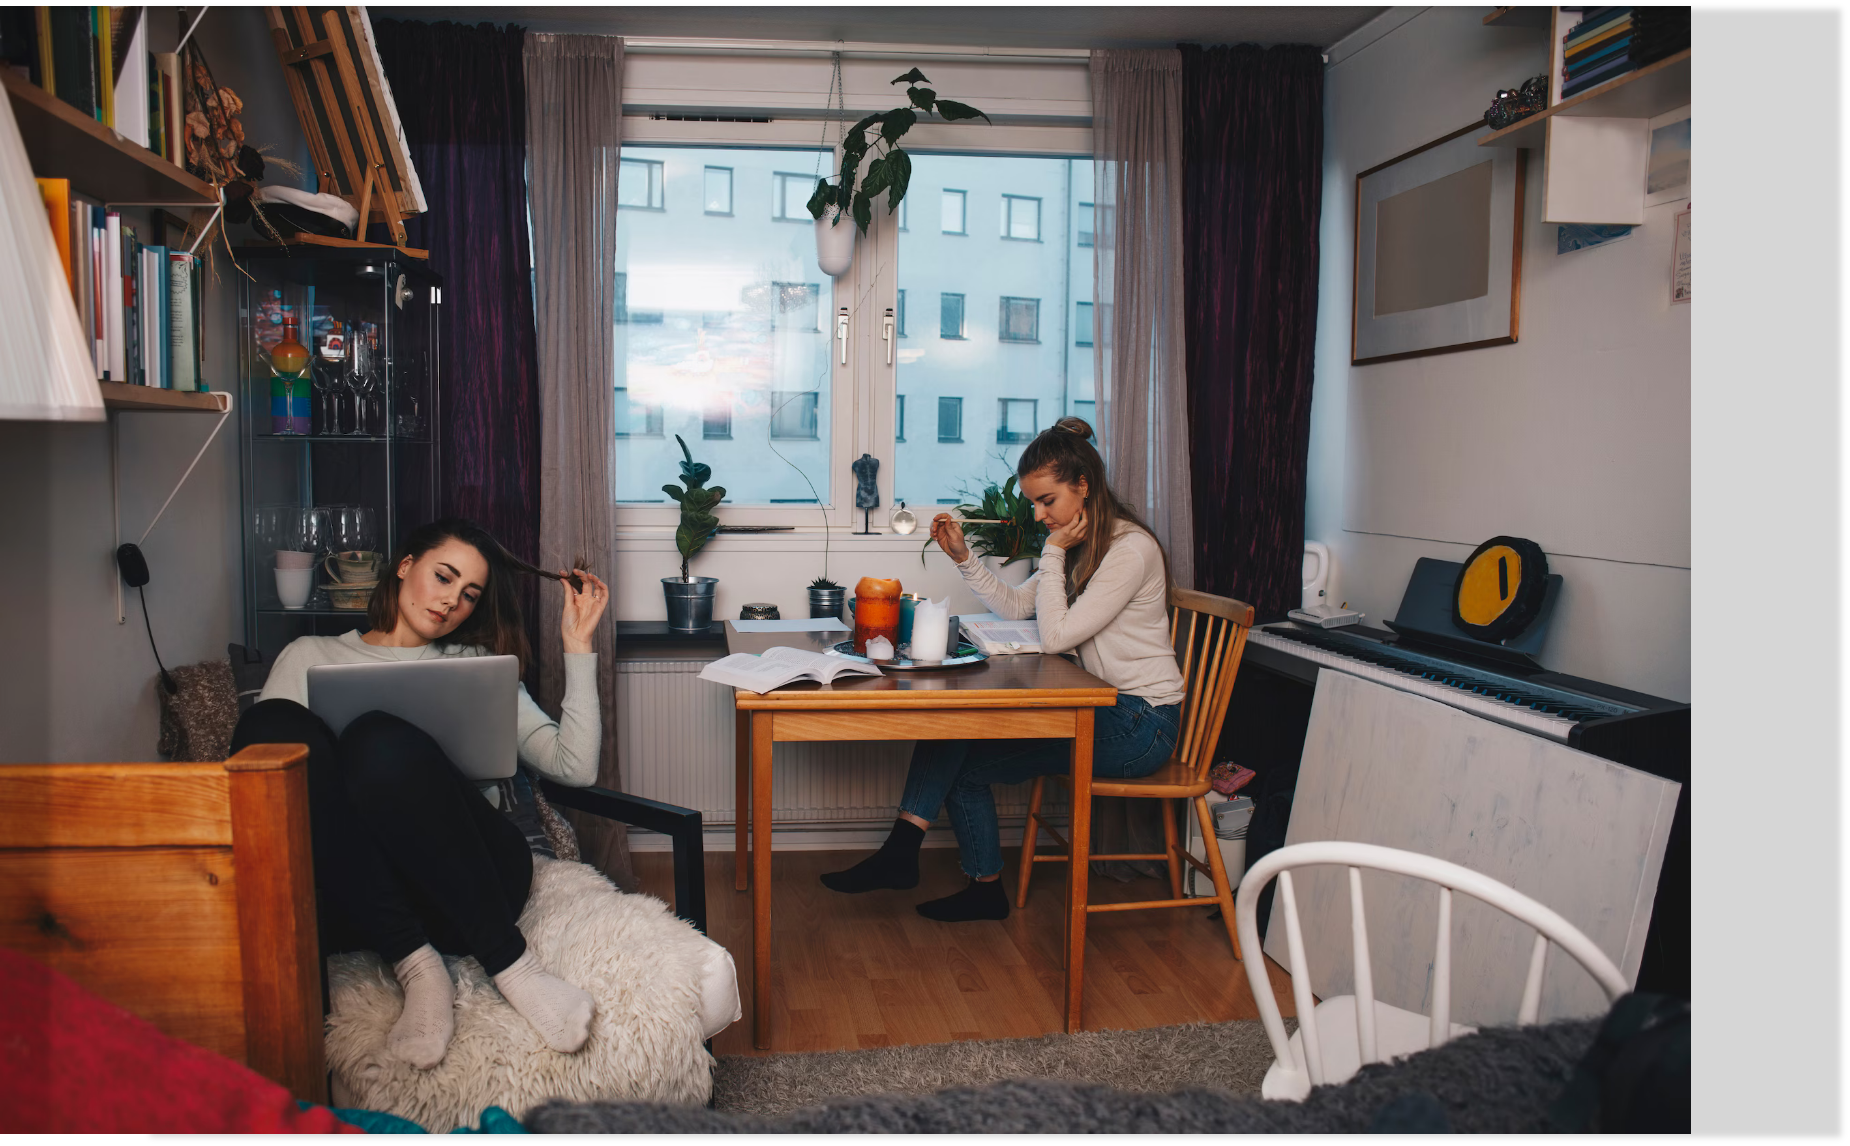
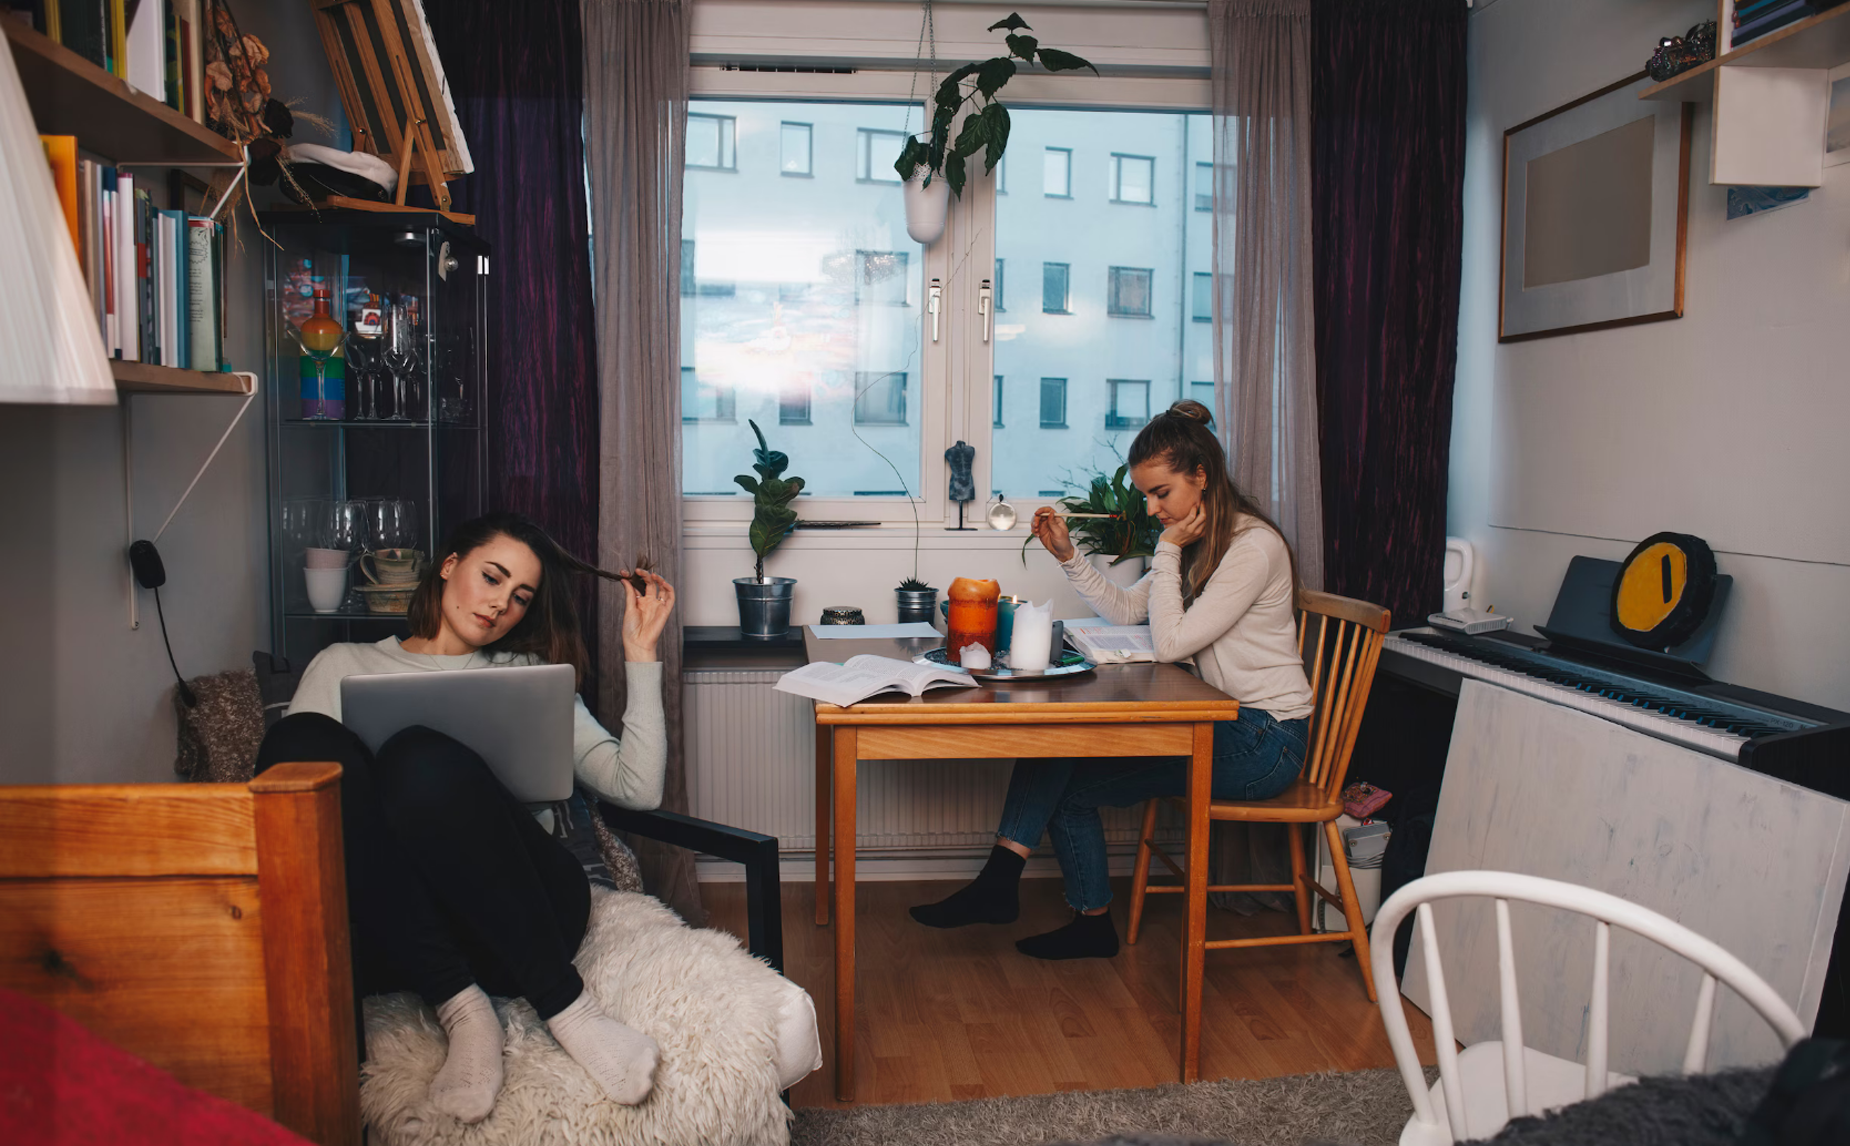
baquet

diff --git a/frontend/css/style.css b/frontend/css/style.css
@@ -1,6 +1,8 @@
 /* frontend/style.css */
 * { box-sizing: border-box; }
 
+
+
 @media (max-width: 600px) {
   /* deze stijl geldt alleen voor schermen smaller dan 600px */
 }
@@ -28,6 +30,13 @@ body { margin:0; font-family: Arial, sans-serif; color:#111; }
 
 footer { display:flex; justify-content:center; gap:40px; padding:15px 0; font-style:italic; font-weight:bold; background:#fff;}
 
+
+html,body{
+  margin: 0;
+  padding: 0;
+  width: 100%;
+  overflow-x: hidden;
+}
 .cta.active {
   background: #e67e22;
   transform: scale(0.97);
@@ -61,14 +70,20 @@ body {
 
 /* === HERO === */
 .hero {
-  height: 75vh;
+ height: 100vh;                     /* vh = volledige hoogte van scherm */
+  width: 110vw;                      /* vw = volledige breedte van scherm */
   display: flex;
   justify-content: center;
   align-items: center;
-  background-size: cover;
-  background-position: center;
+
+background-image: url("/fotos/image.png");  
+background-size: cover;            /* vult volledig het scherm */
+  background-position: center;       /* centreert de afbeelding */
+  background-repeat: no-repeat;      /* geen herhaling */
   position: relative;
-  background-image: url("/fotos/image.png");
+  margin: 0;
+  padding: 0;
+  
 }
 
 

diff --git a/frontend/js/main.js b/frontend/js/main.js
@@ -8,7 +8,7 @@ function createHeader() {
   const header = document.createElement("header");
   header.className = "header";
   header.innerHTML = `
-    <div class="left">Taal</div>
+    <div class="left">Taal</div>  
     <div class="right">
       <a href="#">Aanmelden</a>
       <a href="#">Inloggen</a>
